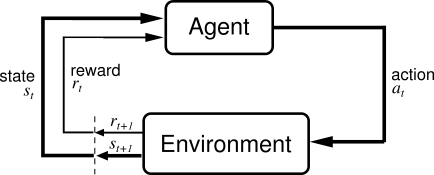
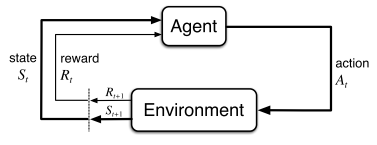
Wrote more on RL

Changed region(s): [[0.0, 0.0, 1.0, 1.0], [0.2042, 0.9655, 0.2334, 1.0]]

diff --git a/rl.tex b/rl.tex
@@ -1,4 +1,10 @@
 \chapter{Reinforcement Learning}
+\epigraph{
+  Fool me once, shame on you \\
+  fool me twice, shame on me.
+}{Popular proverb}
+
+
 \section{The Problem}
 Reinforcement Learning in general is
 the idea of learning from interaction with the environment;
@@ -221,6 +227,7 @@ reinforcement learning has also gotten popular with the public.
 
 
 \section{Reinforcement Learning Framework}
+\subsection{Agent and Environment}
 There are only few components to the reinforcement learning problem.
 The learner and actor is dubbed the agent and everything outside it the environment.
 The agent perceives its environment and acts on it,
@@ -237,30 +244,36 @@ In order for it to do so
 it must learn to not only look to immediate rewards
 but must also look to what the future has to offer.
 
-\begin{figure}[h]
+\begin{figure}[ht]
 	\center
-	\includegraphics[width=.5 \linewidth]{agent-environment.png}
-	\caption{The agent interacts with the environment and consequentially perceives a reward and the next state of the environment.}
+	\includegraphics[width=.8 \linewidth]{agent-environment.png}
+	\caption{The agent interacts with the environment and 
+  consequentially perceives a reward and the next state of the environment.
+  \parencite{Sutton1998a}
+  }
 	\label{agent-env}
 \end{figure}
 
+\paragraph{}
 Formally, we divide the problem into discrete time steps $t$.
-A time step occurs every time the agent perceives a state $s_t$
+A time step occurs every time the agent perceives a state $S_t$
 from the set of possible states $\mathcal{S}$.
-Based on this state the agent selects an action $a_t$
-from its repertoire of actions $\mathcal{A}(s_t)$
-available to it at in state $s_t$.
-As a result, the next step it will receive a numerical reward $r_{t+1}$
-along with the next state $s_{t+1}$,
+Based on this state the agent selects an action $A_t$
+from its repertoire of actions $\mathcal{A}(S_t)$
+available to it at in state $S_t$.
+As a result, the next step it will receive
+a numerical reward $R_{t+1} \in \mathcal{R}$
+along with the next state $S_{t+1}$,
 and so on and so on.
 
+\paragraph{}
 As you can see, the problem setting is entirely abstract
 and can be filled in in various ways.
 In fact, the same practical problem may be defined in different ways
 depending on the goal.
 A state could just as well represent a robot's raw sensor readings
 as well as higher-level representations
-such as whether it's looking at a green or red light.
+such as whether it is looking at a green or red light.
 We say that state is provided by the environment
 even though one could argue a robot's sensors
 are part of the agent.
@@ -275,6 +288,104 @@ to higher-level concepts like which room to go to
 or whether to turn left or right.
 Basically, actions are decisions taken by the distant observer,
 for the designer to decide which shape they take.
+
+\paragraph{Cart Pole Balancing Example}
+A popular experiment in reinforcement learning
+that has its roots close to half a century ago
+is the cart pole balancing experiment
+\parencite{Michie1968}.
+
+In this experiment,
+a pole is affixed to a joint to the cart.
+Because of the joint,
+the pole can move in a two-dimensional plane
+as shown in Figure \ref{fig:cartpole}.
+The cart can move in two directions
+parallel to the joint's movement.
+
+Let us say the pole starts in a perfectly orthogonal
+position to the cart.
+However, because of the joint and
+inherent material imperfections, however microscopic,
+the pole will start to drop toward one side or the other.
+It is now the cart's goal
+to keep the pole balanced perfectly upward
+by moving however it can.
+
+\begin{figure}[ht]
+  \centering
+  \includegraphics[width=0.7\linewidth]{cartpole.png}
+  \caption{Cart Pole Experiment
+  %TODO attribute to http://library.rl-community.org/wiki/CartPole_(Java)
+  }
+  \label{fig:cartpole}
+\end{figure}
+
+\paragraph{}
+Applied to our framework,
+we could at first glance say the cart is the obvious agent
+and everything else its environment.
+It would however make more sense
+to name the textit{decision maker} that controls the cart the agent
+and anything physical the environment or observable state.
+
+As it is commonly defined,
+a state exists of the angle of the pole with the cart
+along with the angular velocity of the pole.
+This would mandate three possible actions:
+move left, move right, or stand still.
+
+However, say the cart works in a more complicated manner
+and actually has to accelerate instead of just
+move at a fixed speed in one direction.
+In that case,
+the aforementioned state is insufficient
+to correctly balance the pole;
+car speed is now a crucial component
+and should be added to the state if possible
+to give a more complete description
+and allow the agent to learn even better policies.
+If not added, the agent will still learn
+to the best of its abilities though.
+
+
+\subsection{Goal and Rewards}
+During a task,
+an agent receives rewards upon acting with the environment.
+Rewards can be positive or negative,
+be real-valued or restricted to natural numbers,
+the agent just has one goal with them.
+There are different ways to define a goal.
+
+\begin{description}
+  \item[finite horizon] 
+    The most naive way to collect rewards is through the
+    \textit{finite-horizon} model,
+    in which the agent aims to optimize its expected
+    rewards for the next fixed amount of steps.
+    This is rarely appropriate and still leaves us
+    with the challenge of finding an appropriate value
+    for the constant horizon window.
+  \item[infinite horizon]
+    The alternative then is to not have a fixed window
+    but try to maximize reward over the rest of the agent's lifespan,
+    albeit discounted so later rewards have less impact than current ones.
+  \item[average reward]
+    The average reward model makes the agent optimize
+    its average reward over the rest of its lifetime.
+    It relates closely to the infinite-horizon model, without the discount.
+\end{description}
+
+\begin{figure}[t]
+  \centering
+  \includegraphics[width=0.5\linewidth]{optimality.png}
+  \caption{Different goal models
+  \parencite{Kaelbling1996} 
+  }
+  \label{fig:optimality}
+\end{figure}
+
+We will only ever use the \textit{infinite-horizon} model.
 
 \section{Markov Decision Processes}
 The Markov property is an interesting property for a problem to have
@@ -430,3 +541,5 @@ two goals that do not necessarily collide.
 
 \section{Eligibility Traces}
 Valt te overwegen.
+
+\section{Actor-Critic}

diff --git a/main.tex b/main.tex
@@ -4,7 +4,7 @@
 \usepackage{times}
 \usepackage[english]{babel}
 \usepackage{csquotes}% Recommended
-\usepackage{attrib}
+\usepackage{attrib}% Attribute quotes
 \usepackage{amsmath,amsfonts,amssymb}
 \usepackage{graphicx}
 \usepackage[colorlinks,urlcolor=blue,linkcolor=blue]{hyperref}
@@ -14,6 +14,7 @@
 \usepackage{vubtitlepage}
 \usepackage[Rejne]{fncychap}
 \usepackage{subcaption}
+\usepackage{epigraph}
 
 %\usepackage{layouts}
 % TODO this is totally a thing
